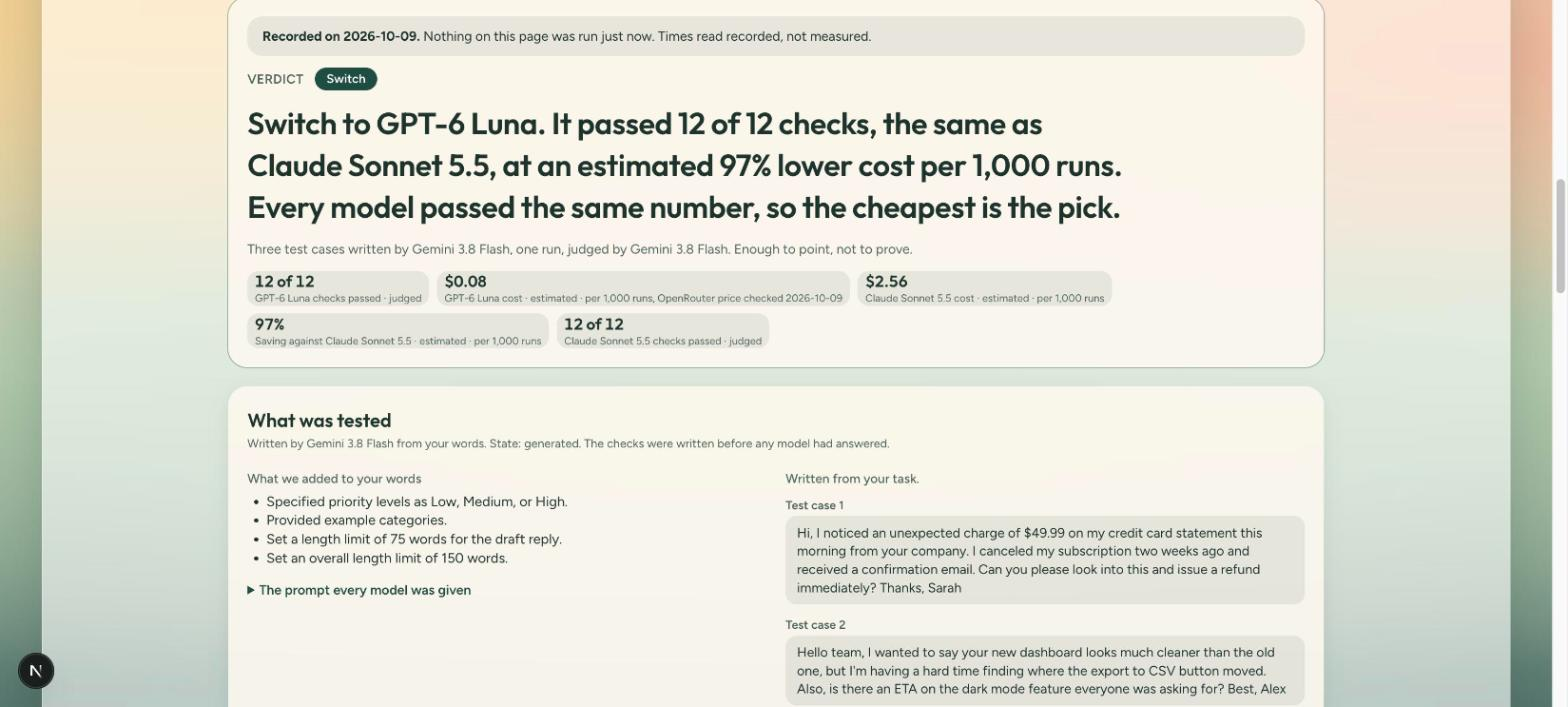
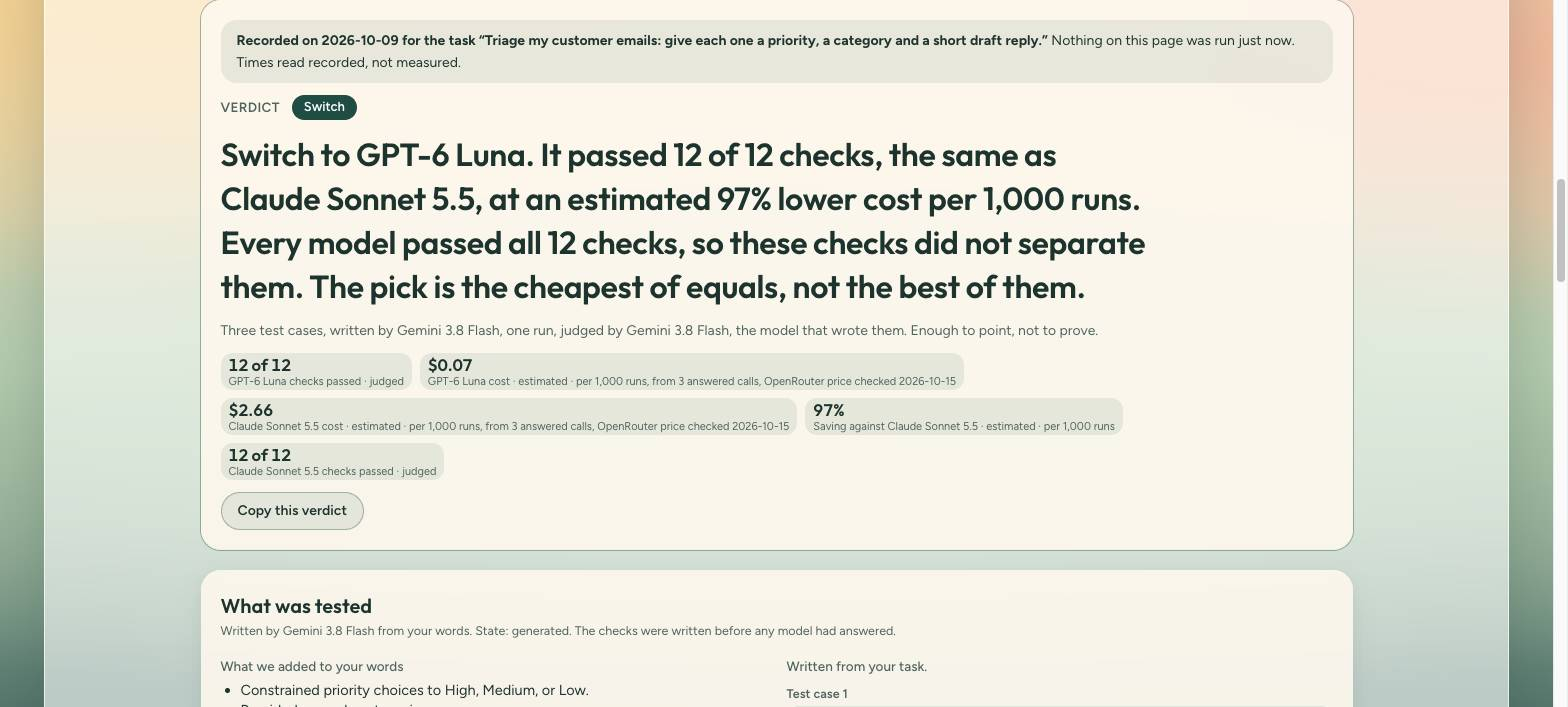
Say where the project stands in the README and retake the two what-changed pictures

diff --git a/app/what-changed/page.tsx b/app/what-changed/page.tsx
@@ -39,9 +39,9 @@ export default function WhatChanged() {
               Before and after
             </h2>
             <figure className="card overflow-hidden p-3">
-              <Image src="/what-changed/before.jpg" width={1484} height={669} alt="The first version, step 4 of 5: an Outputs screen with six boxes for outputs pasted in from other tools." className="h-auto w-full rounded-xl" />
+              <Image src="/what-changed/before.jpg" width={1484} height={669} alt="The first version, step 4 of 5 with your own prompt: an Outputs screen reading 0 of 6 pasted, with the first two of six empty boxes for outputs pasted in from other tools." className="h-auto w-full rounded-xl" />
               <figcaption className="mt-2 text-[13.5px] text-muted">
-                <b>Before.</b> Step 4 of 5, shown with the sample&apos;s outputs loaded. With your own prompt the six boxes start empty: each output is run in another tool and pasted back. Still reachable at{" "}
+                <b>Before.</b> Step 4 of 5 with your own prompt: six empty boxes, one per input and model. Each output is run in another tool and pasted back. Still reachable at{" "}
                 <a href={OLD_VERSION} className="font-semibold text-accent underline underline-offset-2">
                   switch-check-v1.vercel.app
                 </a>
@@ -49,9 +49,9 @@ export default function WhatChanged() {
               </figcaption>
             </figure>
             <figure className="card overflow-hidden p-3">
-              <Image src="/what-changed/after.jpg" width={1568} height={707} alt="The new page showing a verdict sentence, the figures behind it each with a state, and the test cases that were written." className="h-auto w-full rounded-xl" />
+              <Image src="/what-changed/after.jpg" width={1568} height={707} alt="The new page showing the recorded note that names its task, a verdict sentence, the figures behind it each with a state, and the start of the test cases that were written." className="h-auto w-full rounded-xl" />
               <figcaption className="mt-2 text-[13.5px] text-muted">
-                <b>After.</b> One page. This is the recorded example of 2026-10-09, shown as recorded on the page itself: one sentence typed, one button pressed, a verdict with the figures behind it.
+                <b>After.</b> One page. This is the recorded example of 2026-10-09, shown as recorded on the page itself: the note names the task it was recorded for, and the verdict comes with the figures behind it. On the live page it is one sentence typed and one button pressed.
               </figcaption>
             </figure>
           </section>

diff --git a/CHANGELOG.md b/CHANGELOG.md
@@ -18,6 +18,32 @@ AI-Dopters 30-Day Community Hackathon.
   full-precision DeepSeek. It comes back once it has a price cap of its own.
 - **The three recorded examples are unchanged.** They are dated runs from
   Oct 9 and still show GPT-6 Luna.
+- **Pressing a recorded example no longer fills in the form.** The task box
+  and the ticked models stay as the visitor left them, so a visitor who looks
+  at an example and then types a task does not inherit GPT-6 Luna. The note at
+  the top of a recorded verdict now names the task it was recorded for.
+- **The two pictures on `/what-changed` are retaken.** The "after" picture
+  showed the Oct 9 verdict wording and the old cost chips; it now shows the
+  current wording, the recorded note and the new button. The "before" picture
+  shows step 4 of the first version with your own prompt, six empty boxes.
+
+### Added
+
+- **A "Copy this verdict" button under the verdict.** It copies the verdict
+  sentence, the evidence line and the page address as plain text. A recording
+  or a replay says so in the copied text, so a pasted result never reads as a
+  run that happened just now. It has its own "Copied" state.
+- **A "Where it stands" section in the README**: the commit count and test
+  count with dates, and one dated outcome of a live check, labelled judged,
+  estimated and generated as the page labels it.
+
+### Missed
+
+- **The GitHub repository description and the portal project description still
+  describe the first version.** Both wait for Lutfiya to say go.
+- **The copied text was checked on the page, not pasted.** The automated
+  browser could not paste, so the text was captured at the moment of copying
+  and compared with the page.
 
 ## Week 3, so far (Oct 9, 2026, Day 15)
 

diff --git a/README.md b/README.md
@@ -17,6 +17,12 @@ Then you can flip any check, edit any test case and run again, and the verdict f
 
 A task too large for one short answer, such as a whole app, is run as a **slice**: the page says which part it tested and what it did not.
 
+## Where it stands
+
+Source and history: https://github.com/millerandmuller/switch-check, 52 commits between 2026-09-27 and 2026-10-15, 287 tests.
+
+On 2026-10-15 a live check on the public page, task ‘turn rough meeting notes into action items with an owner and a due date’, on the two default models: Claude Haiku 5.5 passed 12 of 12 judged checks, the same as Claude Sonnet 5.5, at an estimated 93% lower cost per 1,000 runs (OpenRouter prices of 2026-10-15); the task as typed passed 8 of 12 against 12 of 12 for the written prompt. One run of three generated test cases, which is enough to point, not to prove.
+
 ## What is real and what is not
 
 Every figure has a state under it, in the same place every time.
